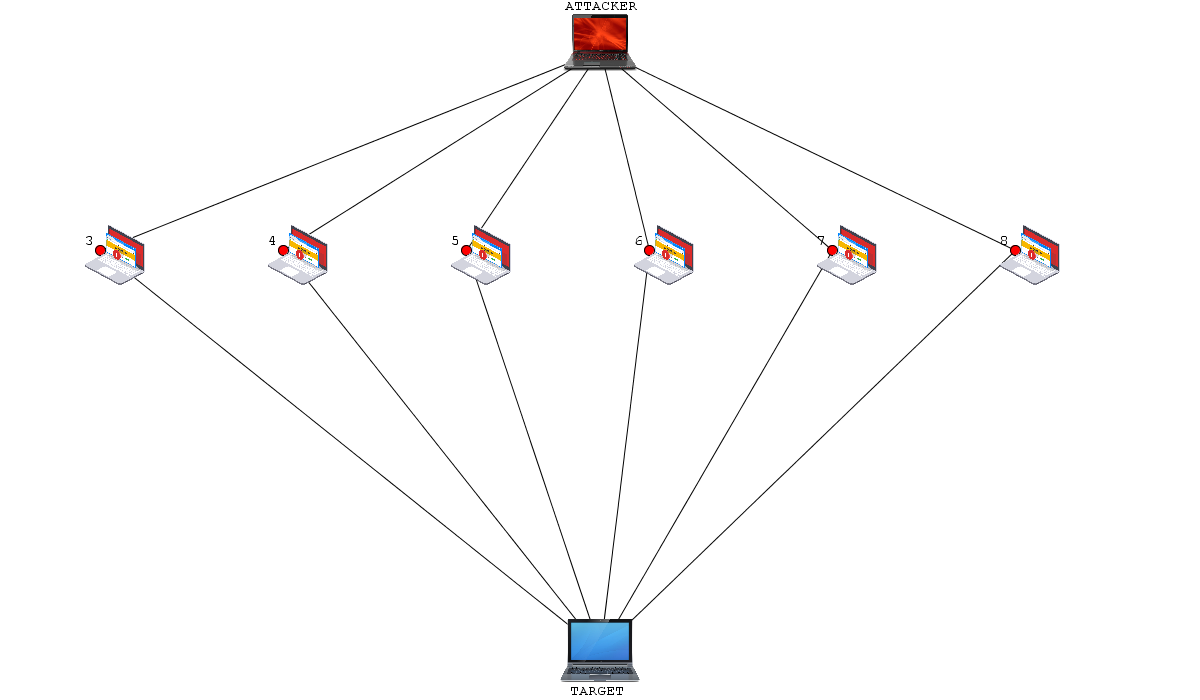
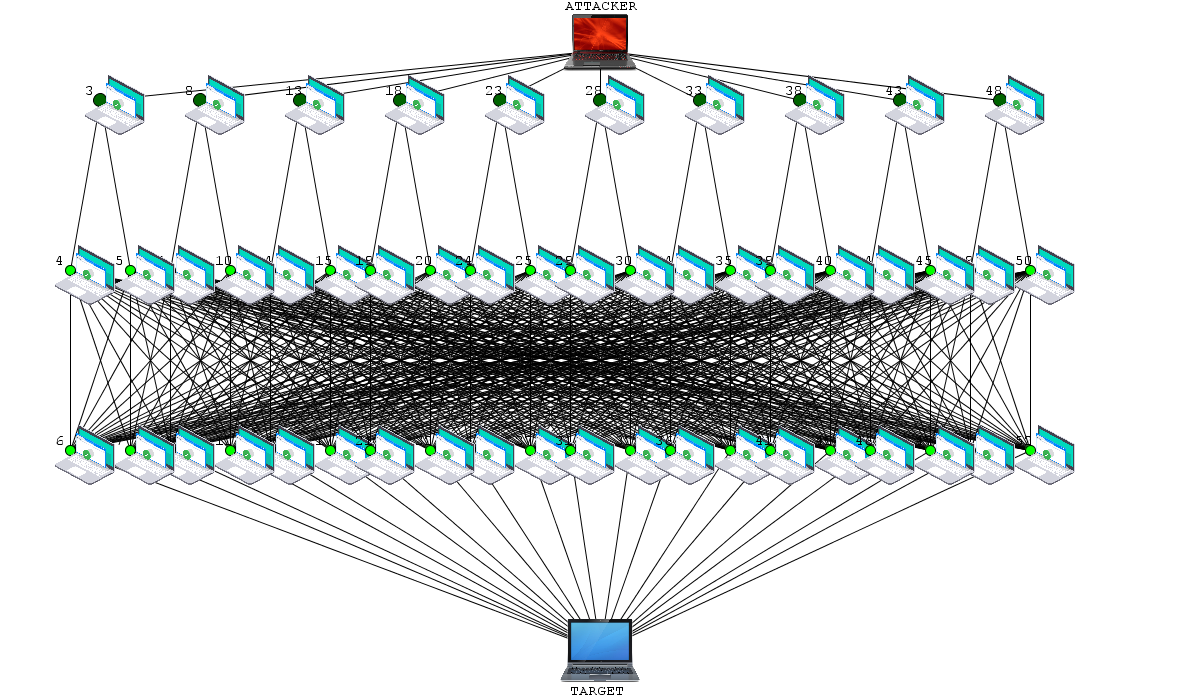
hisatory added

diff --git a/src/graphic/DDoSSimulation.java b/src/graphic/DDoSSimulation.java
@@ -8,9 +8,11 @@ import java.awt.event.ActionListener;
 import java.awt.event.KeyEvent;
 import java.awt.event.KeyListener;
 import java.util.ArrayList;
+import java.util.Set;
 
 import javax.swing.*;
 import bin.*;
+import bin.Package;
 import javafx.scene.layout.Border;
 import processing.core.*;
 
@@ -23,11 +25,11 @@ public class DDoSSimulation {
 	private Font labelFont = new Font("Cambria", Font.BOLD, 15),
 				 descriptionFont = new Font("Cambria", Font.ITALIC, 15),	
 				 terminalFont = new Font("Lucida Sans Typewriter", Font.PLAIN, 12);
-	private JPanel configurePanel, terminalPanel, detailsPanel, startingPanel, ipMainPanel;
+	private JPanel configurePanel, terminalPanel, detailsPanel, historyPanel, startingPanel, ipMainPanel;
 	private JLabel id_detail, ipAddress_detail, ttl_detail, domain_detail, type_detail, memory_detail;
 	private JTextField numSlavesTF, ttlTF, memoryTF, packagesizeTF; 
 	private boolean userInput = false, defaultInput = false, fileInput = false;
-	private JTextArea terminal;
+	private JTextArea terminal, packages_received_detail, packages_sent_detail;
 	
 	public static final int CYN_FLOOD = 1, ICMP_FLOOD = 2;
 	private int packageType = 1, lastInputTerminal = 1;
@@ -40,7 +42,7 @@ public class DDoSSimulation {
 		//makePopUpStart();
 		makeWindow(true,true,true,true);
 		procGraphic = new ProcessingSimulation(this);
-		procGraphic.setNumOfSlaves(6);
+		procGraphic.setNumOfSlaves(50);
 		procGraphic.makeNetworkDefault();
 		runSimulation();
 	}
@@ -178,8 +180,9 @@ public class DDoSSimulation {
 		domain_detail = new JLabel();		domain_detail.setFont(descriptionFont);		
 		ttl_detail = new JLabel();			ttl_detail.setFont(descriptionFont);		
 		memory_detail = new JLabel();		memory_detail.setFont(descriptionFont);		
-		type_detail = new JLabel();			type_detail.setFont(descriptionFont);		
+		type_detail = new JLabel();			type_detail.setFont(descriptionFont);	
 		
+			
 		JTextField dummy1 = new JTextField("Dummy textfield.");		dummy1.setVisible(false);
 		JTextField dummy2 = new JTextField("Dummy textfield.");		dummy2.setVisible(false);
 		JTextField dummy3 = new JTextField("Dummy textfield.");		dummy3.setVisible(false);
@@ -194,16 +197,44 @@ public class DDoSSimulation {
 		detailsPanel.add(Memory);		detailsPanel.add(memory_detail);		detailsPanel.add(dummy5);
 		detailsPanel.add(TTL);			detailsPanel.add(ttl_detail);			detailsPanel.add(dummy6);
 		
-		configurePanel.add(detailsPanel);
+		configurePanel.add(detailsPanel, BorderLayout.CENTER);
 		detailsPanel.setVisible(false); 	// -> will be visible when mouse click on component
+		//history panel --------------------------------------------------------------------------------
 		
+		historyPanel = new JPanel(new GridLayout(2,1,3,3));
+		historyPanel.setBorder(BorderFactory.createTitledBorder("Packages history"));
+		
+		packages_received_detail = new JTextArea(12,65);
+		packages_received_detail.setBackground(Color.BLACK);
+		packages_received_detail.setForeground(Color.RED);
+		packages_received_detail.setFont(terminalFont);
+		JScrollPane sp_packReceived = new JScrollPane(packages_received_detail);
+		
+		packages_sent_detail = new JTextArea(12,65);
+		packages_sent_detail.setBackground(Color.BLACK);
+		packages_sent_detail.setForeground(Color.MAGENTA);
+		packages_sent_detail.setFont(terminalFont);
+		JScrollPane sp_packSent = new JScrollPane(packages_sent_detail);
+		
+		//JLabel received = new JLabel("Received packages"); 		received.setFont(labelFont); 
+		//JLabel sent = new JLabel("Sent packages"); 				sent.setFont(labelFont);
+		
+		//historyPanel.add(received);
+		historyPanel.add(sp_packReceived);
+		//historyPanel.add(sent);
+		historyPanel.add(sp_packSent);
+		
+		configurePanel.add(historyPanel, BorderLayout.SOUTH);
+		historyPanel.setVisible(false); 	// -> will be visible when mouse click on component
 		// terminal tab --------------------------------------------------------------------------------
+		
 		
 		terminal = new JTextArea(44,67);
 		terminal.setBackground(Color.BLACK);
 		terminal.setForeground(Color.WHITE);
 		terminal.setFont(terminalFont);
 		terminal.append(">");
+		JScrollPane sp = new JScrollPane(terminal);
 		
 		terminal.addKeyListener(new KeyListener(){
 		    @Override
@@ -242,7 +273,7 @@ public class DDoSSimulation {
 
 		});
 		
-		terminalPanel.add(terminal);
+		terminalPanel.add(sp);
 		
 		tabs.addTab("Configure", configurePanel);
 		tabs.addTab("Terminal", terminalPanel);
@@ -368,9 +399,36 @@ public class DDoSSimulation {
 		type_detail.setText(": " + comp.getTypeString());
 		ttl_detail.setText(": " + comp.getTTL());
 		memory_detail.setText(": " + comp.getMemBuffSizeCurrent() + " / " + comp.getMemBuffSize());
+		packages_received_detail.setText("RECEIVED PACKAGES\n\n");
+		packages_sent_detail.setText("SENT PACKAGES\n\n");
+		
+		int numPackRec = 0;
+		Set<Package> received = comp.getReceivedPackages();
+		for (Package pack: received) {
+			packages_received_detail.append("___PACKAGE "+numPackRec+"___\n");
+			packages_received_detail.append("sender IP: "+pack.getEdge().getNodeFrom().getComputer().getIpAddress()+"\n");
+			packages_received_detail.append("size: "+pack.getSize()+"\n");
+			packages_received_detail.append("time sent: "+pack.getTimeStartSending()+"\n");
+			packages_received_detail.append("time received: "+pack.getReceivedTime()+"\n");
+			packages_received_detail.append("________________\n");
+			numPackRec++;
+		}
+		int numPackSent = 0;
+		Set<Package> sent = comp.getSentPackages();
+		for (Package pack: sent) {
+			packages_sent_detail.append("___PACKAGE "+numPackSent+"___\n");
+			packages_sent_detail.append("receiver IP: "+pack.getEdge().getNodeTo().getComputer().getIpAddress()+"\n");
+			packages_sent_detail.append("size: "+pack.getSize()+"\n");
+			packages_sent_detail.append("time sent: "+pack.getTimeStartSending()+"\n");
+			packages_sent_detail.append("time received: "+pack.getReceivedTime()+"\n");
+			packages_sent_detail.append("________________\n");
+			numPackSent++;
+		}
+		
 	}
 	
 	public void detailPanelVisible(boolean value) { detailsPanel.setVisible(value);}
+	public void historyPanelVisible(boolean value) { historyPanel.setVisible(value);}
 	
 	public JTextArea getTerminal() {
 		return terminal;

diff --git a/src/graphic/ProcessingSimulation.java b/src/graphic/ProcessingSimulation.java
@@ -166,7 +166,7 @@ public class ProcessingSimulation extends PApplet{
 				if (infected < numOfSlaves && virus != null && virus.packageReceived() == true) {
 					Node n = e.getNodeTo();
 					n.setInfected(true);
-					
+					n.processPackage(virus);
 					drawNetworkBegging();
 					
 					e.deleteVirusPackage();
@@ -456,13 +456,15 @@ public class ProcessingSimulation extends PApplet{
 		Node targetNode = new Node(targetComputer, APPLET_WIDTH/2, APPLET_HEIGHT-50);
 		network.addNode(targetNode);
 		
-		if ( numOfSlaves > 60) 							makeNetworkForManyReflected(masterNode, targetNode);
+		
+		if ( numOfSlaves > 40) 							makeNetworkForManyReflected(masterNode, targetNode);
 		else if (numOfSlaves <= 60 && numOfSlaves > 50) { makeNetworkIn_n_lines(masterNode, targetNode, 6); numLines = 6; }
 		else if (numOfSlaves <= 50 && numOfSlaves > 40) { makeNetworkIn_n_lines(masterNode, targetNode, 5); numLines = 5; }
 		else if (numOfSlaves <= 40 && numOfSlaves > 30) { makeNetworkIn_n_lines(masterNode, targetNode, 4); numLines = 4; }
 		else if (numOfSlaves <= 30 && numOfSlaves > 20) { makeNetworkIn_n_lines(masterNode, targetNode, 3); numLines = 3; }
 		else if (numOfSlaves <= 20 && numOfSlaves > 10) { makeNetworkIn_n_lines(masterNode, targetNode, 2); numLines = 2; }
 		else if (numOfSlaves <= 10) 					{ makeNetworkIn_n_lines(masterNode, targetNode, 1); numLines = 1; }
+		
 		
 	}
 		
@@ -486,6 +488,7 @@ public class ProcessingSimulation extends PApplet{
 			masterNode.addNeighbor(nodeMasterSlave);
 			nodeMasterSlave.addNeighbor(masterNode);
 			network.addNode(nodeMasterSlave);
+			network.addMasterSlaveNode(nodeMasterSlave);
 			
 			Node nodeSlave = new Node( PIXEL_START_LEFT+randomX-30, 3*PIXEL_START_TOP+randomY+120);
 			Computer newSlave = new Computer("216.58.214."+nodeSlave.getID(),"slave"+nodeSlave.getID(), Computer.SLAVE, 2048);
@@ -500,42 +503,49 @@ public class ProcessingSimulation extends PApplet{
 			nodeSlave.addNeighbor(nodeMasterSlave);
 			nodeMasterSlave.addNeighbor(nodeSlave);
 			network.addNode(nodeSlave);
+			network.addSlaveNode(nodeSlave);
 			
 			Edge edgeMSS2 = new Edge(network, nodeMasterSlave, nodeSlave2);
 			network.addEdge(edgeMSS2);
 			nodeSlave2.addNeighbor(nodeMasterSlave);
 			nodeMasterSlave.addNeighbor(nodeSlave2);
-			network.addNode(nodeSlave2);						
+			network.addNode(nodeSlave2);				
+			network.addSlaveNode(nodeSlave2);
 			
 			Node nodeReflector1 = new Node( PIXEL_START_LEFT+randomX-30, 3*PIXEL_START_TOP+randomY+300);
 			Computer newReflector1 = new Computer("216.58.214."+nodeReflector1.getID(),"slave"+nodeReflector1.getID(), Computer.REFLECTING, 2048);
 			nodeReflector1.setComputer(newReflector1);
+			network.addNode(nodeReflector1);
+			network.addReflectorNode(nodeReflector1);
 			
 			Node nodeReflector2 = new Node( PIXEL_START_LEFT+randomX+30, 3*PIXEL_START_TOP+randomY+300);
 			Computer newReflector2 = new Computer("216.58.214."+nodeReflector2.getID(),"slave"+nodeReflector2.getID(), Computer.REFLECTING, 2048);
 			nodeReflector2.setComputer(newReflector2);
+			network.addNode(nodeReflector2);
+			network.addReflectorNode(nodeReflector2);
+						
+		}	
+		Set<Node> reflectors = network.getReflectorNodes();
+		Set<Node> slaves = network.getSlaveNodes();
+		
+		for(Node nodeReflector1: reflectors) {
 			
-			Edge edgeSR1 = new Edge(network, nodeReflector1, nodeSlave);
+			for(Node nodeSlave: slaves) {
+				
+				Edge edgeSR1 = new Edge(network, nodeReflector1, nodeSlave);
+				network.addEdge(edgeSR1);
+				nodeSlave.addNeighbor(nodeReflector1);
+				nodeReflector1.addNeighbor(nodeSlave);
+				
+			}
+			
 			Edge edgeRT1 = new Edge(network, nodeReflector1, targetNode);
-			network.addEdge(edgeSR1);
 			network.addEdge(edgeRT1);
-			nodeSlave.addNeighbor(nodeReflector1);
-			nodeReflector1.addNeighbor(nodeSlave);
 			targetNode.addNeighbor(nodeReflector1);
 			nodeReflector1.addNeighbor(targetNode);
-			network.addNode(nodeReflector1);
-			
-			Edge edgeSR2 = new Edge(network, nodeReflector2, nodeSlave2);
-			Edge edgeRT2 = new Edge(network, nodeReflector2, targetNode);
-			network.addEdge(edgeSR2);
-			network.addEdge(edgeRT2);
-			nodeSlave2.addNeighbor(nodeReflector2);
-			nodeReflector2.addNeighbor(nodeSlave2);
-			targetNode.addNeighbor(nodeReflector2);
-			nodeReflector2.addNeighbor(targetNode);
-			network.addNode(nodeReflector2);
-			
-		}	
+		}
+		
+		
 	}
 	
 	public void makeNetworkForMany(Node masterNode, Node targetNode) {
@@ -592,7 +602,7 @@ public class ProcessingSimulation extends PApplet{
 	
 	public void checkClickedComputer(int cordmouseX, int cordmouseY) {
 		GUIcontrol.detailPanelVisible(false);
-		
+		GUIcontrol.historyPanelVisible(false);
 		//check all nodes, and for any node if mouse cords are in PIXEL_RANGE_NODE 
 		Set<Node> allNodes = network.getAllNodes();
 		for(Node node: allNodes) {
@@ -600,6 +610,7 @@ public class ProcessingSimulation extends PApplet{
 				//clicked on computer -> show details
 				GUIcontrol.showComputerDetails(node.getComputer(), node.getID());
 				GUIcontrol.detailPanelVisible(true);
+				GUIcontrol.historyPanelVisible(true);
 			}
 		}
 	}

diff --git a/src/bin/Network.java b/src/bin/Network.java
@@ -7,6 +7,9 @@ import graphic.ProcessingSimulation;
 public class Network {
 	private ProcessingSimulation procSim;
 	private Set<Node> allNodes = new HashSet<Node>();
+	private Set<Node> masterSlaves = new HashSet<Node>();
+	private Set<Node> slaves = new HashSet<Node>();
+	private Set<Node> reflectors = new HashSet<Node>();
 	private Set<Edge> allEdges = new HashSet<Edge>();
 	private Node masterNode = null, targetNode = null;
 	private int numPackages = 0;
@@ -24,6 +27,16 @@ public class Network {
 		allNodes.add(n);
 	}
 	
+	public void addMasterSlaveNode(Node n) {
+		masterSlaves.add(n);
+	}
+	public void addSlaveNode(Node n) {
+		slaves.add(n);
+	}
+	public void addReflectorNode(Node n) {
+		reflectors.add(n);
+	}
+	
 	public void addEdge(Edge e) {
 		allEdges.add(e);
 	}
@@ -32,6 +45,9 @@ public class Network {
 	public Node getTargetNode() { return targetNode; }
 	
 	public Set<Node> getAllNodes() { return allNodes; }
+	public Set<Node> getMasterSlaveNodes() { return masterSlaves; }
+	public Set<Node> getSlaveNodes() { return slaves; }
+	public Set<Node> getReflectorNodes() { return reflectors; }
 	public Set<Edge> getAllEdges() { return allEdges; }
 	
 	public Edge getEdge(Node from, Node to) {
@@ -63,6 +79,8 @@ public class Network {
 				pack.setTimeStartSending(currSec + inc++);
 				procSim.addPackageToQueue(pack);
 				pack.setStatus(Package.WAITING);
+				
+				e.getNodeFrom().getComputer().addSentPackage(pack);
 			}
 		}
 	}
@@ -78,6 +96,8 @@ public class Network {
 				pack.setTimeStartSending(currSec + inc++);
 				procSim.addPackageToQueue(pack);
 				pack.setStatus(Package.WAITING);
+				
+				n.getComputer().addSentPackage(pack);
 			}
 		}
 	}

diff --git a/src/bin/Computer.java b/src/bin/Computer.java
@@ -1,5 +1,8 @@
 package bin;
 
+import java.util.HashSet;
+import java.util.Set;
+
 public class Computer {
 	
 	public static final int MASTER = 0, MASTER_SLAVE = 1, SLAVE = 2, REFLECTING =3, TARGET = 4;
@@ -9,6 +12,9 @@ public class Computer {
 	private int type, TTL;
 	private int[] memBuffer;
 	private int maxSize = 0, currSize = 0;
+	private Set<Package> receivedPackages = new HashSet<Package>();
+	private Set<Package> sentPackages = new HashSet<Package>();
+	
 	
 	public Computer(String ipAddress, String domain, int type, int memSize) {
 		this.ipAddress = ipAddress;
@@ -51,5 +57,14 @@ public class Computer {
 		if ((currSize - size) > 0) currSize -= size;
 		else if (currSize > 0 && (currSize - size <= 0) ) currSize = 0;
 	}
+	
+	public Set<Package> getReceivedPackages() { return receivedPackages; }
+	
+	public void addReceivedPackage(Package pack) { receivedPackages.add(pack); }
+	
+	public Set<Package> getSentPackages() { return sentPackages; }
+	
+	public void addSentPackage(Package pack) { sentPackages.add(pack); }
+	
 
 }

diff --git a/src/bin/Node.java b/src/bin/Node.java
@@ -24,6 +24,7 @@ public class Node {
 		cordY = y;
 	}
 	
+	
 	public void setInfected(boolean inf) { infected = inf; }
 	
 	public boolean getInfected() { return infected; }
@@ -47,6 +48,7 @@ public class Node {
 		long currSec = System.currentTimeMillis()/1000;
 		pack.setReceivedTime(currSec);
 		computer.increaseMemory(pack.getSize());
+		computer.addReceivedPackage(pack);
 		return false;
 		
 	}
